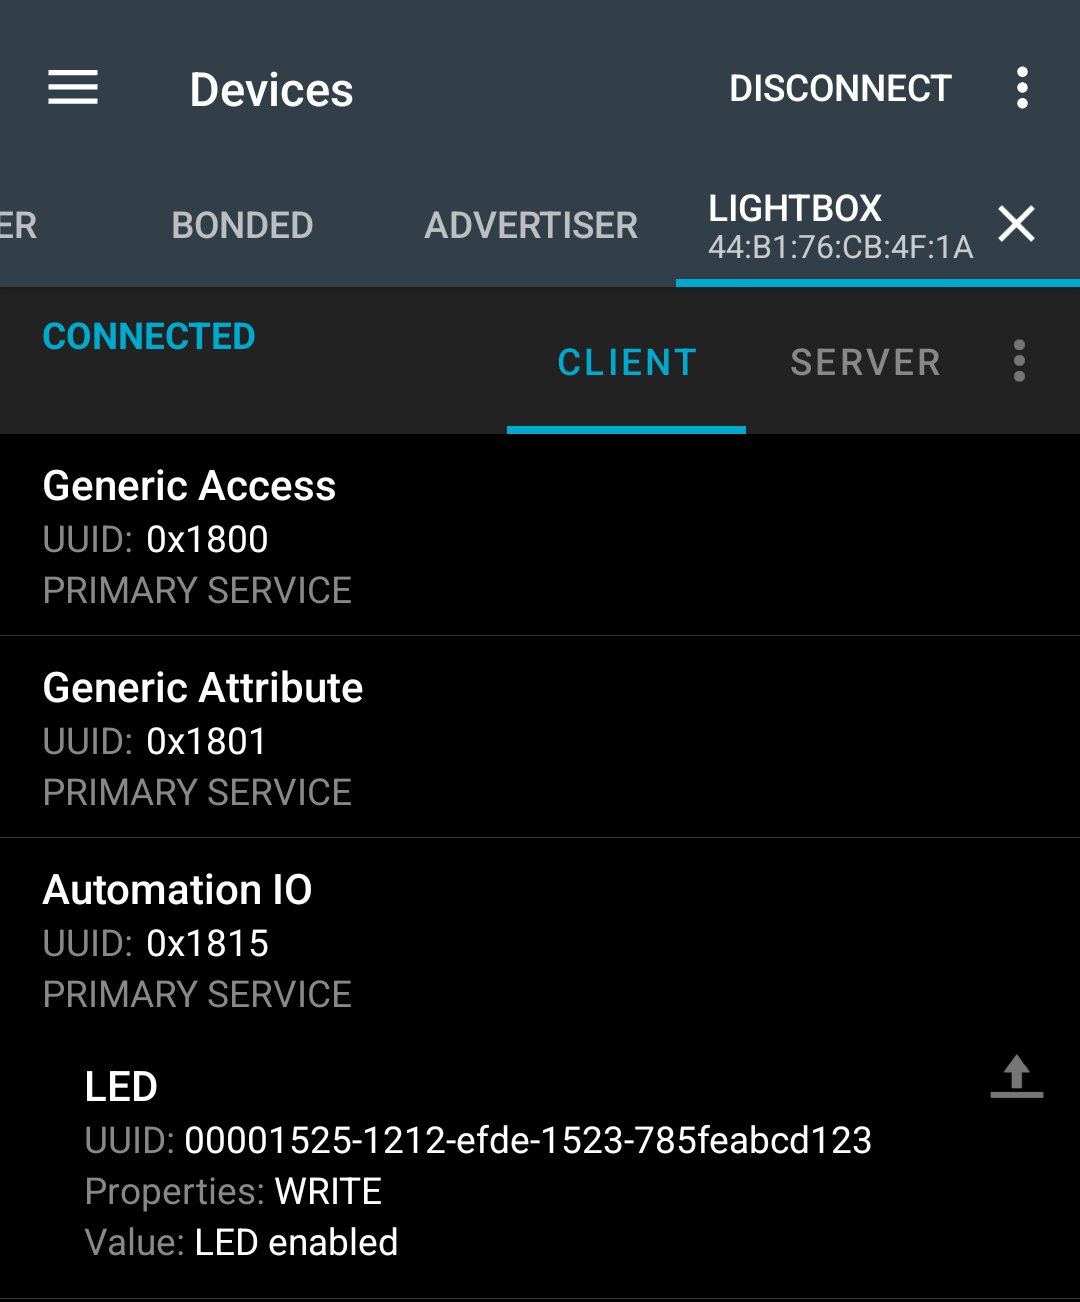
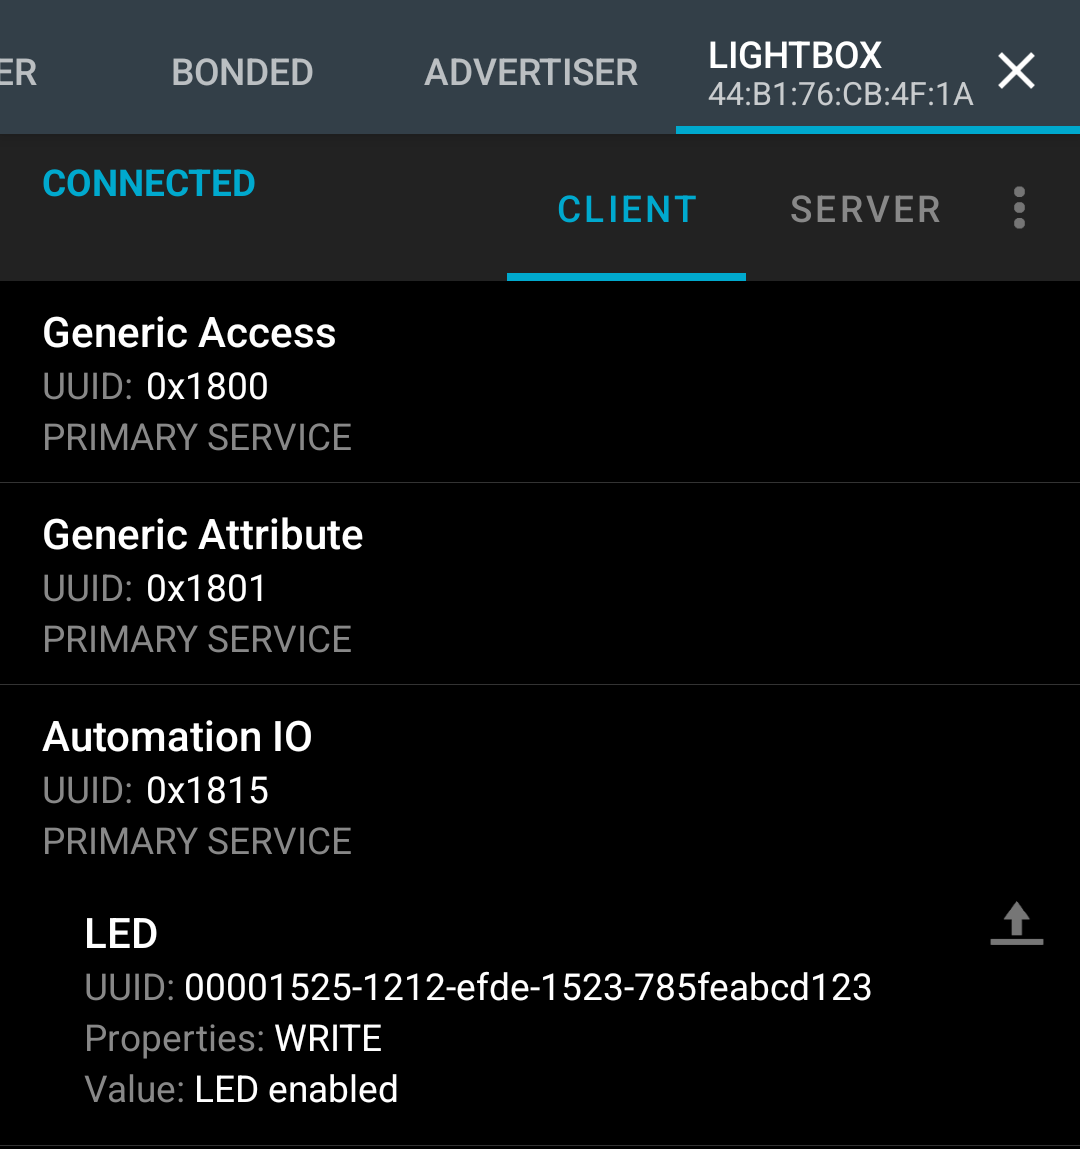
add images of final lightbox

Changed region(s): [[0.0, 0.0305, 1.0, 0.9748], [0.9167, 0.792, 0.9778, 0.8529]]

diff --git a/app/src/routes/project/lightbox/+page.svelte b/app/src/routes/project/lightbox/+page.svelte
@@ -8,10 +8,11 @@
 	import Title from '$lib/Title.svelte';
 
 	// images
-	import titleImg from '$lib/assets/lightbox/DSC_0296.jpg';
+	import titleImg from '$lib/assets/lightbox/hdr.jpg';
 	import controllerFront from '$lib/assets/lightbox/DSC_0296.jpg';
 	import controllerBack from '$lib/assets/lightbox/DSC_0298.jpg';
 	import ledGrid from '$lib/assets/lightbox/led-grid.jpg';
+	import diffusion from '$lib/assets/lightbox/DSC_0282.jpg';
 	const imageData = [
 		{
 			src: controllerFront,
@@ -21,6 +22,18 @@
 		{
 			src: controllerBack,
 			caption: 'The back of the controller PCB',
+			width: '50vw'
+		}
+	];
+	const litUp = [
+		{
+			src: diffusion,
+			caption: 'The uniform lighting beneath the lithophane',
+			width: '50vw'
+		},
+		{
+			src: titleImg,
+			caption: 'The image produced by the lithophane',
 			width: '50vw'
 		}
 	];
@@ -111,6 +124,12 @@
 			image={nrfConnect}
 			caption="The nRF Connect application can connect, bond, and write to the lightbox"
 		/>
+	</div>
+
+	<h3>Diffusion</h3>
+	<p>A diffusion layer provides a uniform plane of light beneath the lithophane.</p>
+	<div class="my-15 mx-[5vw]">
+		<ImageCols images={litUp} />
 	</div>
 
 	<h3>Links</h3>

diff --git a/app/src/routes/+page.svelte b/app/src/routes/+page.svelte
@@ -6,7 +6,7 @@
 
 	// images
 	import trophyThumb from '$lib/assets/trophy/lights-on.jpg';
-	import lightboxThumb from '$lib/assets/lightbox/DSC_0296.jpg';
+	import lightboxThumb from '$lib/assets/lightbox/hdr-wide.jpg';
 	import canTesterThumb from '$lib/assets/can-tester/ui.png';
 	import emailThumb from '$lib/assets/email/email.png'
 
